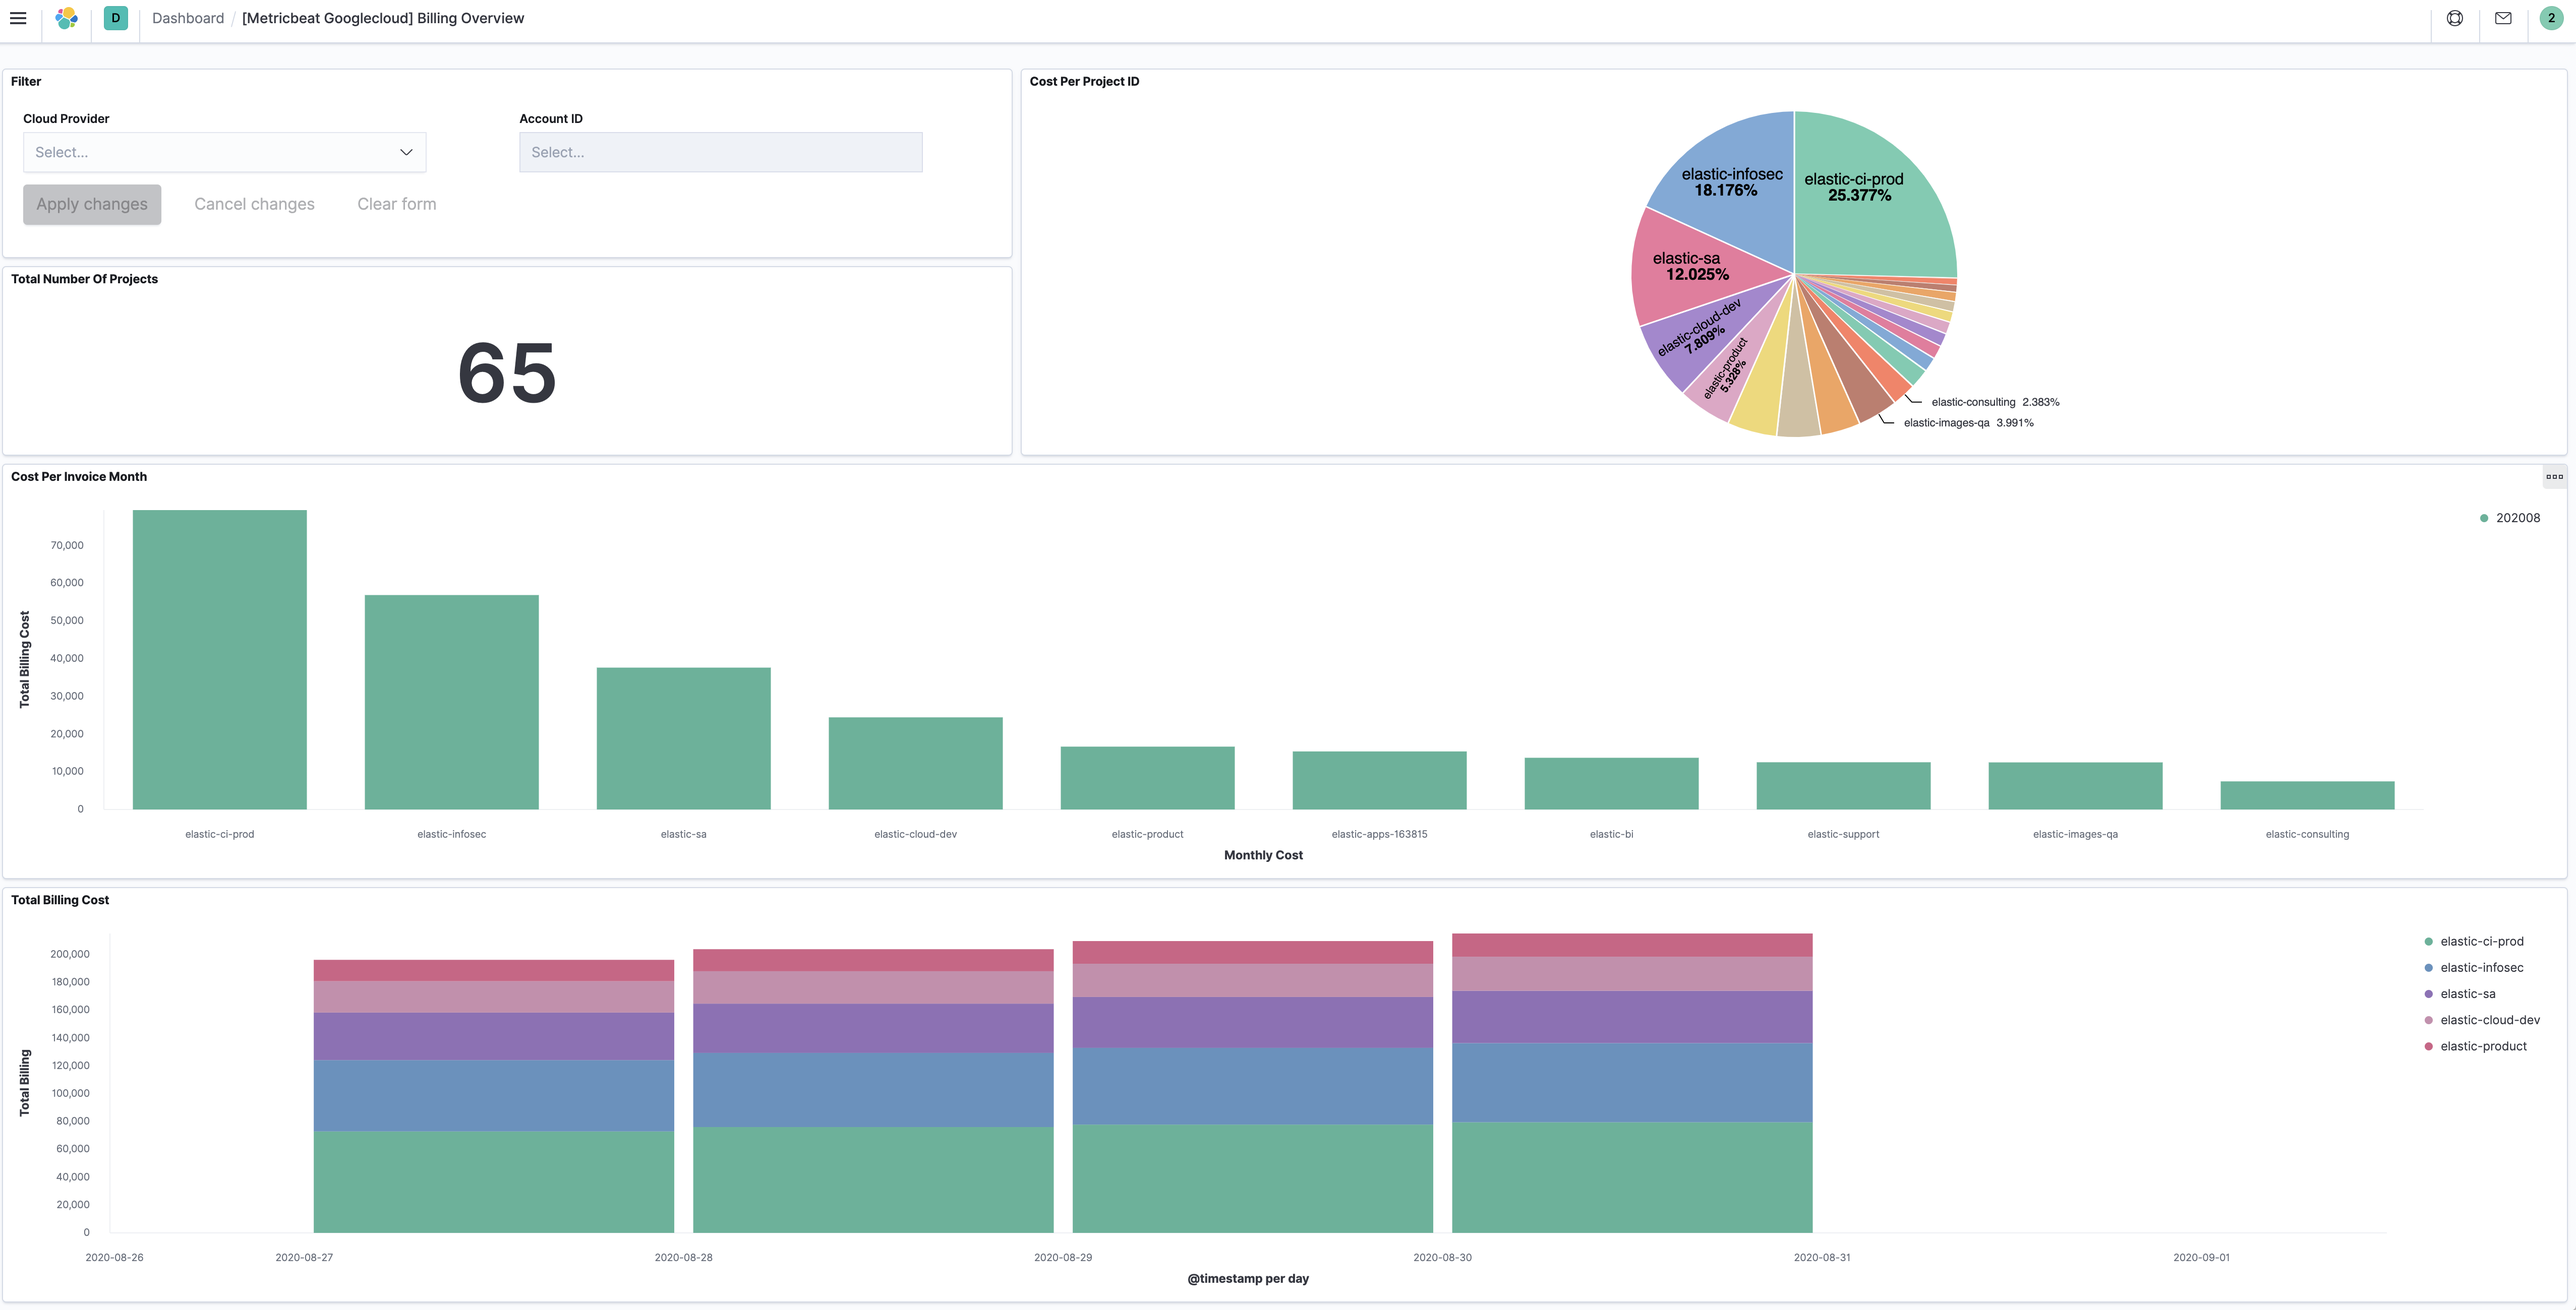
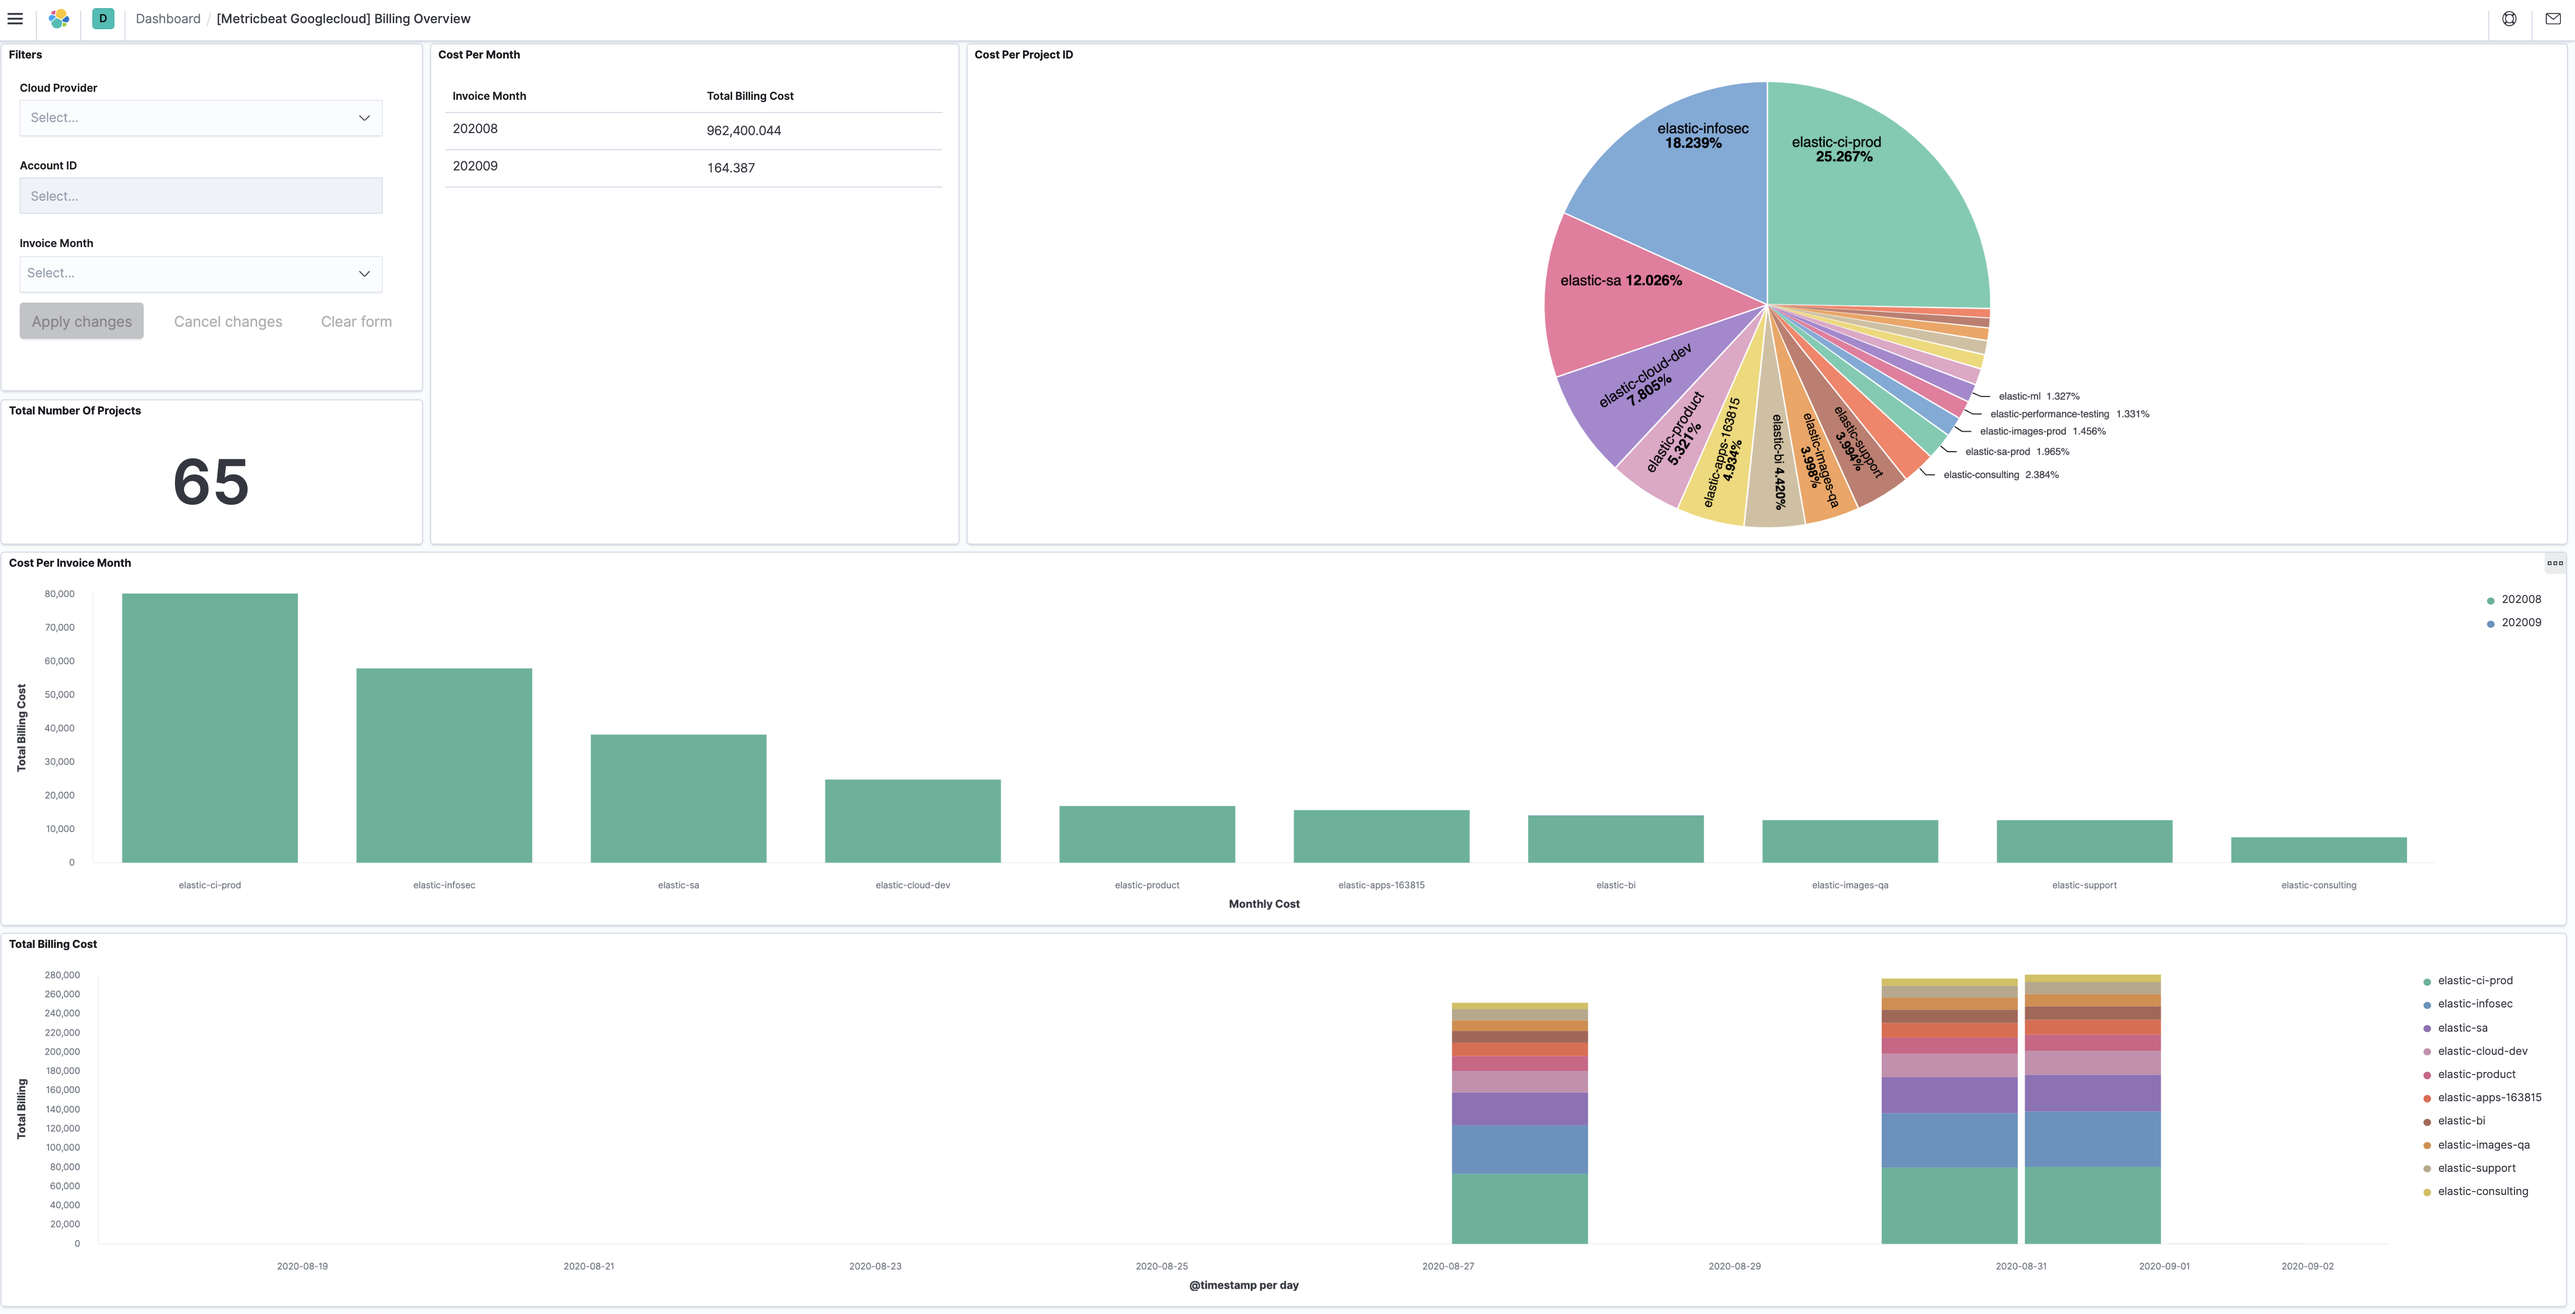
update doc and total cost per month in dashboard

diff --git a/x-pack/metricbeat/module/googlecloud/billing/billing.go b/x-pack/metricbeat/module/googlecloud/billing/billing.go
@@ -50,9 +50,31 @@ type config struct {
 	ProjectID           string `config:"project_id" validate:"required"`
 	CredentialsFilePath string `config:"credentials_file_path" validate:"required"`
 	DatasetID           string `config:"dataset_id" validate:"required"`
-	TablePattern        string `config:"table_pattern" validate:"required"`
+	TablePattern        string `config:"table_pattern"`
 	CostType            string `config:"cost_type"`
 	period              time.Duration
+}
+
+// Validate checks for deprecated config options
+func (c config) Validate() error {
+	if c.CostType != "" {
+		// cost_type can only be regular, tax, adjustment, or rounding error
+		costTypes := []string{"regular", "tax", "adjustment", "rounding error"}
+		if stringInSlice(c.CostType, costTypes) {
+			return nil
+		}
+		return fmt.Errorf("given cost_type %s is not in supported list %s", c.CostType, costTypes)
+	}
+	return nil
+}
+
+func stringInSlice(a string, list []string) bool {
+	for _, b := range list {
+		if b == a {
+			return true
+		}
+	}
+	return false
 }
 
 // New creates a new instance of the MetricSet. New is responsible for unpacking
@@ -88,21 +110,26 @@ func (m *MetricSet) Fetch(ctx context.Context, reporter mb.ReporterV2) (err erro
 
 	defer client.Close()
 
-	var events []mb.Event
+	// default table_pattern for query is "gcp_billing_export_v1"
+	if m.config.TablePattern == "" {
+		m.logger.Warn("table_pattern is not set in config, \"gcp_billing_export_v1\" will be used by default.")
+		m.config.TablePattern = "gcp_billing_export_v1"
+	}
+
+	// default cost_type for query is "regular"
+	if m.config.CostType == "" {
+		m.logger.Warn("cost_type is not set in config, \"regular\" will be used by default.")
+		m.config.CostType = "regular"
+	}
+
 	tableMetas, err := getTables(ctx, client, m.config.DatasetID, m.config.TablePattern)
 	if err != nil {
 		return fmt.Errorf("getTables failed: %w", err)
 	}
 
-	// default cost_type for query is "regular"
-	costType := m.config.CostType
-	if costType == "" {
-		m.logger.Warn("cost_type is not set in config, \"regular\" will be used by default.")
-		costType = "regular"
-	}
-
+	var events []mb.Event
 	for _, tableMeta := range tableMetas {
-		eventsPerQuery, err := m.queryBigQuery(ctx, client, tableMeta, month, costType)
+		eventsPerQuery, err := m.queryBigQuery(ctx, client, tableMeta, month, m.config.CostType)
 		if err != nil {
 			return fmt.Errorf("queryBigQuery failed: %w", err)
 		}
@@ -239,17 +266,18 @@ func (m *MetricSet) queryBigQuery(ctx context.Context, client *bigquery.Client, 
 
 func createEvents(rowItems []bigquery.Value, accountID string) mb.Event {
 	event := mb.Event{}
-	event.MetricSetFields = common.MapStr{}
-	event.RootFields = common.MapStr{}
+	event.MetricSetFields = common.MapStr{
+		"invoice_month": rowItems[0],
+		"project_id":rowItems[1],
+		"cost_type": rowItems[2],
+		"total": rowItems[3],
+	}
 
-	event.RootFields.Put("cloud.provider", "googlecloud")
-	event.RootFields.Put("cloud.account.id", accountID)
-	event.RootFields.Put("cloud.account.name", accountID)
-
-	event.MetricSetFields.Put("invoice_month", rowItems[0])
-	event.MetricSetFields.Put("project_id", rowItems[1])
-	event.MetricSetFields.Put("cost_type", rowItems[2])
-	event.MetricSetFields.Put("total", rowItems[3])
+	event.RootFields = common.MapStr{
+		"cloud.provider": "googlecloud",
+		"cloud.account.id": accountID,
+		"cloud.account.name": accountID,
+	}
 
 	// create eventID for each current_date + invoice_month + project_id + cost_type
 	currentDate := getCurrentDate()
